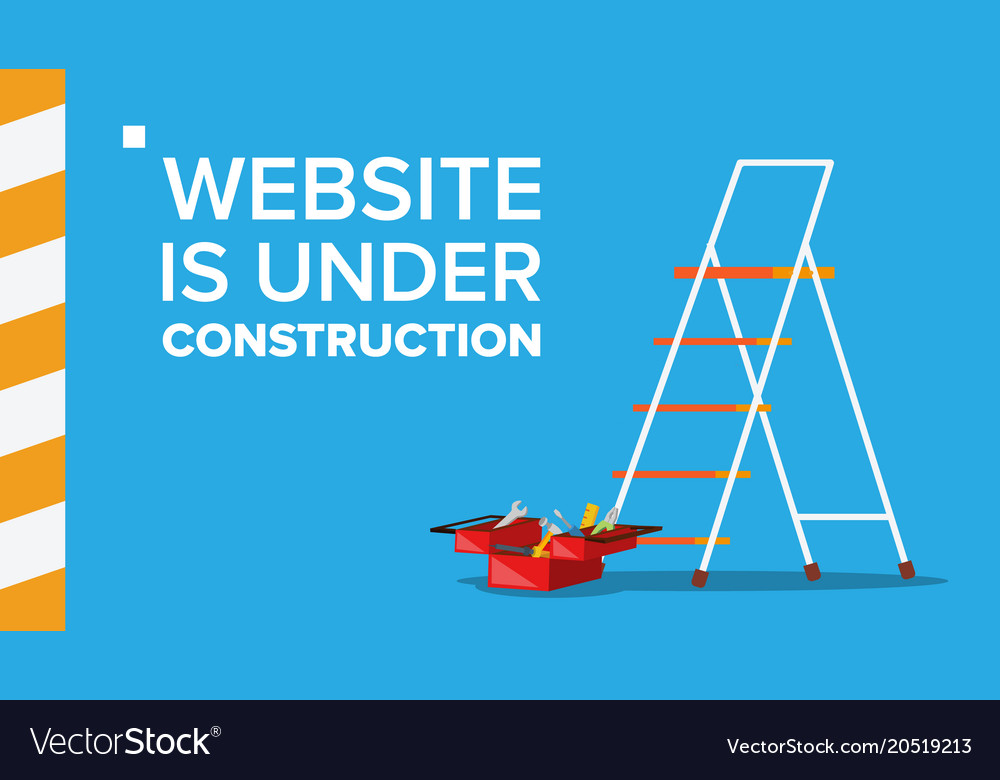
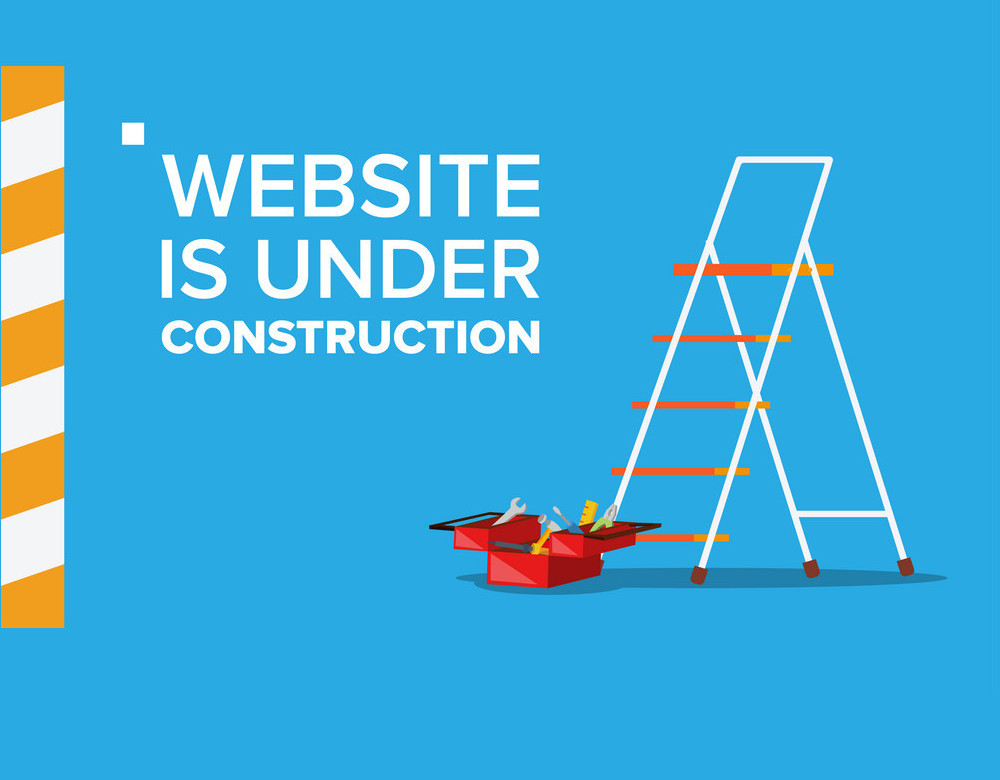
some fixes

diff --git a/myblog/mainsite/templates/mainsite/home.html b/myblog/mainsite/templates/mainsite/home.html
@@ -19,7 +19,11 @@
         display: block;
         margin-left: auto;
         margin-right: auto;
-        width: 80%;
+        width: 55%;
+    }
+
+    body {
+        background-color: rgba(0, 0, 0, 0.8);
     }
 
 </style>

diff --git a/myblog/myblog/settings.py b/myblog/myblog/settings.py
@@ -11,7 +11,7 @@ SECRET_KEY = '4z+al1@c1wn5ed7ca^8t^9+@%_!4ig@zlqt(suuvrfe_wsx0-#'
 # SECURITY WARNING: don't run with debug turned on in production!
 DEBUG = True
 
-ALLOWED_HOSTS = []
+ALLOWED_HOSTS = ["arcimavicius.lt", "www.arcimavicius.lt", "89.40.4.72", "127.0.0.1"]
 
 
 INSTALLED_APPS = [

diff --git a/myblog/myblog/urls.py b/myblog/myblog/urls.py
@@ -18,5 +18,5 @@ from django.urls import path, include
 
 urlpatterns = [
     path('admin/', admin.site.urls),
-    path('home/', include("mainsite.urls")),
+    path('', include("mainsite.urls")),
 ]
